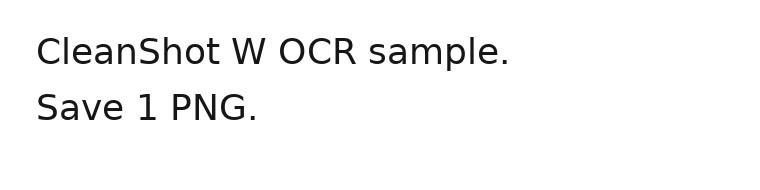
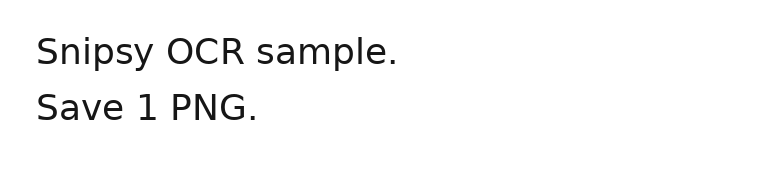
Rename GPUI app and OCR binaries to Snipsy

Changed region(s): [[0.0303, 0.1842, 0.6658, 0.3684]]

diff --git a/app/cleanshot/src/settings.rs b/app/cleanshot/src/settings.rs
@@ -190,7 +190,8 @@ fn set_autostart(enabled: bool) -> Result<(), String> {
     let sub_key: Vec<u16> = "Software\\Microsoft\\Windows\\CurrentVersion\\Run\0"
         .encode_utf16()
         .collect();
-    let value_name: Vec<u16> = "CleanShotW\0".encode_utf16().collect();
+    let value_name: Vec<u16> = "Snipsy\0".encode_utf16().collect();
+    let legacy_value_name: Vec<u16> = "CleanShotW\0".encode_utf16().collect();
     let mut key: Hkey = null_mut();
     let mut disposition = 0;
     let status = unsafe {
@@ -232,7 +233,18 @@ fn set_autostart(enabled: bool) -> Result<(), String> {
             }
         }
     };
+    let legacy_result = unsafe { RegDeleteValueW(key, legacy_value_name.as_ptr()) };
     unsafe { RegCloseKey(key) };
+
+    let result = if result == ERROR_SUCCESS
+        && (legacy_result == ERROR_SUCCESS || legacy_result == ERROR_FILE_NOT_FOUND)
+    {
+        ERROR_SUCCESS
+    } else if result != ERROR_SUCCESS {
+        result
+    } else {
+        legacy_result
+    };
 
     if result == ERROR_SUCCESS {
         Ok(())
@@ -307,7 +319,7 @@ mod tests {
     #[test]
     fn editor_icon_pack_survives_legacy_settings_writes() {
         let root = std::env::temp_dir().join(format!(
-            "cleanshot-w-settings-{}-{}",
+            "snipsy-settings-{}-{}",
             std::process::id(),
             std::time::SystemTime::now()
                 .duration_since(std::time::UNIX_EPOCH)
@@ -349,8 +361,8 @@ mod tests {
     #[test]
     fn startup_command_is_quoted_and_minimized() {
         assert_eq!(
-            quote_autostart_command(r#"C:\Apps\CleanShot W.exe"#),
-            r#""C:\Apps\CleanShot W.exe" --minimized"#
+            quote_autostart_command(r#"C:\Apps\Snipsy.exe"#),
+            r#""C:\Apps\Snipsy.exe" --minimized"#
         );
     }
 }

diff --git a/ocr/src/main.rs b/ocr/src/main.rs
@@ -3,11 +3,11 @@ use std::path::PathBuf;
 use std::time::Instant;
 
 #[cfg(not(feature = "tesseract"))]
-use cleanshot_ocr_eval::OcrError;
+use snipsy_ocr_eval::OcrError;
 #[cfg(feature = "tesseract")]
-use cleanshot_ocr_eval::TesseractEngine;
-use cleanshot_ocr_eval::windows_ocr::WindowsMediaOcr;
-use cleanshot_ocr_eval::{OcrBackend, recognize_image};
+use snipsy_ocr_eval::TesseractEngine;
+use snipsy_ocr_eval::windows_ocr::WindowsMediaOcr;
+use snipsy_ocr_eval::{OcrBackend, recognize_image};
 
 struct Arguments {
     engine: String,
@@ -19,7 +19,7 @@ struct Arguments {
 
 fn main() {
     if let Err(error) = run() {
-        eprintln!("cleanshot-ocr: {error}");
+        eprintln!("snipsy-ocr: {error}");
         std::process::exit(1);
     }
 }
@@ -131,7 +131,7 @@ fn confidence_label(confidence: Option<f32>) -> String {
 }
 
 fn usage() -> &'static str {
-    "Usage: cleanshot-ocr [--engine winrt|tesseract] [--language CODE] [--tessdata-dir DIR] IMAGE\n\
+    "Usage: snipsy-ocr [--engine winrt|tesseract] [--language CODE] [--tessdata-dir DIR] IMAGE\n\
      Default engine: Tesseract. On Windows, use --engine winrt for comparison.\n\
      Tesseract language uses traineddata codes (for example, eng); WinRT uses Windows language tags (for example, en-US)."
 }

diff --git a/app/cleanshot/src/library.rs b/app/cleanshot/src/library.rs
@@ -503,7 +503,7 @@ mod tests {
     #[test]
     fn invalid_annotation_files_are_rejected_without_being_modified() {
         let path = std::env::temp_dir().join(format!(
-            "cleanshot-w-phase3-{}-{}.json",
+            "snipsy-phase3-{}-{}.json",
             std::process::id(),
             super::now_millis()
         ));
@@ -521,7 +521,7 @@ mod tests {
     #[test]
     fn deleting_capture_removes_index_entry_and_capture_files() {
         let root = std::env::temp_dir().join(format!(
-            "cleanshot-w-library-delete-{}-{}",
+            "snipsy-library-delete-{}-{}",
             std::process::id(),
             super::now_millis()
         ));
@@ -540,7 +540,7 @@ mod tests {
     #[test]
     fn deleting_invalid_or_missing_library_ids_is_non_destructive() {
         let root = std::env::temp_dir().join(format!(
-            "cleanshot-w-library-delete-empty-{}-{}",
+            "snipsy-library-delete-empty-{}-{}",
             std::process::id(),
             super::now_millis()
         ));

diff --git a/app/cleanshot/src/editor_main.rs b/app/cleanshot/src/editor_main.rs
@@ -20,13 +20,13 @@ fn main() {
 
     let path = std::env::args().nth(1).filter(|arg| arg != "--help");
     let Some(path) = path else {
-        eprintln!("Usage: cleanshot-editor <image.png>");
+        eprintln!("Usage: snipsy-editor <image.png>");
         return;
     };
     let png = match std::fs::read(&path) {
         Ok(png) => png,
         Err(error) => {
-            eprintln!("cleanshot-editor: could not read {path}: {error}");
+            eprintln!("snipsy-editor: could not read {path}: {error}");
             return;
         }
     };
@@ -45,7 +45,7 @@ fn main() {
                 annotations: library::AnnotationSource::Transient,
             },
         ) {
-            eprintln!("cleanshot-editor: {error}");
+            eprintln!("snipsy-editor: {error}");
             cx.quit();
         }
     });

diff --git a/ocr/src/lib.rs b/ocr/src/lib.rs
@@ -88,7 +88,7 @@ mod tests {
     #[test]
     fn passes_the_image_path_to_the_backend_and_preserves_optional_confidence() {
         let path = std::env::temp_dir().join(format!(
-            "cleanshot-ocr-test-{}-{}.png",
+            "snipsy-ocr-test-{}-{}.png",
             std::process::id(),
             NEXT_FILE.fetch_add(1, Ordering::Relaxed)
         ));
@@ -120,7 +120,7 @@ mod tests {
     #[test]
     fn rejects_missing_files_without_calling_the_backend() {
         let path = std::env::temp_dir().join(format!(
-            "cleanshot-ocr-missing-{}-{}.png",
+            "snipsy-ocr-missing-{}-{}.png",
             std::process::id(),
             NEXT_FILE.fetch_add(1, Ordering::Relaxed)
         ));

diff --git a/app/cleanshot/src/hotkey.rs b/app/cleanshot/src/hotkey.rs
@@ -5,7 +5,7 @@
 //! `GetMessageW` pump and forwards events over a channel. This keeps the
 //! hotkey independent of GPUI's message loop.
 //!
-//! Linux: no global hotkey in the dev loop — use `cleanshot-w --capture`.
+//! Linux: no global hotkey in the dev loop — use `snipsy --capture`.
 //! (The `global-hotkey` crate wants its own event-loop integration; revisit
 //! if the dev loop needs hotkeys.)
 

diff --git a/ocr/samples/generate_samples.py b/ocr/samples/generate_samples.py
@@ -17,7 +17,7 @@ def draw_lines(image, lines, color, font_size, position=(36, 30), spacing=20):
 
 
 clean = Image.new("RGB", (760, 190), "white")
-draw_lines(clean, ["CleanShot W OCR sample.", "Save 1 PNG."], "#161616", 36)
+draw_lines(clean, ["Snipsy OCR sample.", "Save 1 PNG."], "#161616", 36)
 clean.save(OUTPUT / "clean-lines.png")
 
 settings = Image.new("RGB", (960, 190), "white")

diff --git a/app/cleanshot/src/flow.rs b/app/cleanshot/src/flow.rs
@@ -242,7 +242,7 @@ fn open_editor_capture(cx: &mut App, id: Option<&str>, png: Vec<u8>, title: Stri
     }
 }
 
-/// Linux dev-loop entry: pin a PNG from a path (`cleanshot-w --pin file.png`).
+/// Linux dev-loop entry: pin a PNG from a path (`snipsy --pin file.png`).
 pub fn open_pin_from_path(cx: &mut App, path: &str) {
     match std::fs::read(path) {
         Ok(png) => {

diff --git a/app/NOTES.md b/app/NOTES.md
@@ -19,9 +19,9 @@ workflow.
 
 ## Layout
 
-`app/` is its own Cargo workspace with two binaries: `cleanshot-w`
-(`app/target/release/cleanshot-w.exe`) and `cleanshot-editor`
-(`app/target/release/cleanshot-editor.exe`, a standalone image-path test
+`app/` is its own Cargo workspace with two binaries: `snipsy`
+(`app/target/release/snipsy.exe`) and `snipsy-editor`
+(`app/target/release/snipsy-editor.exe`, a standalone image-path test
 entry point for the same editor window):
 
 | Module | Ported from | Notes |
@@ -92,7 +92,7 @@ version-1 document. Any later open request replaces the source and document
 in the same editor window. The editor stores `annotations.json` alongside
 `image.png`; crop replaces the library image and repositions/intersects shapes.
 `Ctrl+S` saves a full-resolution flattened PNG; `Ctrl+C` copies that flattened
-image. The standalone `cleanshot-editor <image.png>` binary opens a transient
+image. The standalone `snipsy-editor <image.png>` binary opens a transient
 image without library persistence.
 
 ## Verification status
@@ -114,8 +114,8 @@ persistence, save, and clipboard behavior.
 
 ## How to run on Windows
 
-Download the `cleanshot-w-app-windows` artifact (Actions → "App Windows
-build" → your commit → Artifacts) and run `cleanshot-w.exe`. It lives in the
+Download the `snipsy-windows` artifact (Actions → "Snipsy Windows build" →
+your commit → Artifacts) and run `snipsy.exe`. It lives in the
 tray, and the hotkey (default `ctrl+shift+4`, read from
 `%LOCALAPPDATA%/Snipsy/settings.json`) starts a capture. If `Snipsy` does not
 exist but `%LOCALAPPDATA%/CleanShotW` does, the first launch migrates the old
@@ -123,7 +123,7 @@ settings and capture library; an existing `Snipsy` directory wins. A second
 launch exits (single-instance mutex), and a successful screen capture opens
 the editor. The tray can capture a window, open the latest capture in the
 editor, or toggle launch at startup. Window captures open in a pin window.
-To test the editor separately, run `cleanshot-editor.exe <image.png>`.
+To test the editor separately, run `snipsy-editor.exe <image.png>`.
 
 ## Remaining extension points
 

diff --git a/ocr/EVALUATION.md b/ocr/EVALUATION.md
@@ -8,7 +8,7 @@ fixture is acceptable. Windows.Media.Ocr remains in the evaluation crate as a
 Windows-only comparison; it was exact on these fixtures but does not expose
 confidence scores.
 
-`cleanshot-ocr` defaults to Tesseract on every platform. On Windows, pass
+`snipsy-ocr` defaults to Tesseract on every platform. On Windows, pass
 `--engine winrt` to run the comparison. The Windows CI workflow runs both
 engines on the same generated PNG fixtures, prints character/word error rates
 and per-process elapsed time, and uploads the report with both CLI builds and

diff --git a/app/cleanshot/assets/icons/README.md b/app/cleanshot/assets/icons/README.md
@@ -12,4 +12,4 @@ Chromium install.
 
 Each pack's license notice is under `licenses/`. The Remix assets remain under
 the Remix Icon License v1.0 and are included only as functional annotations in
-the CleanShot W application, not as a standalone icon product.
+the Snipsy application, not as a standalone icon product.
